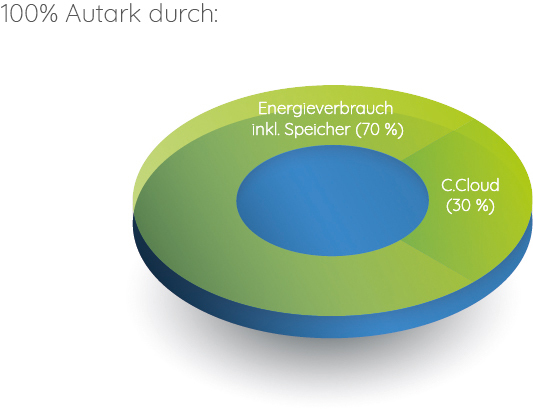
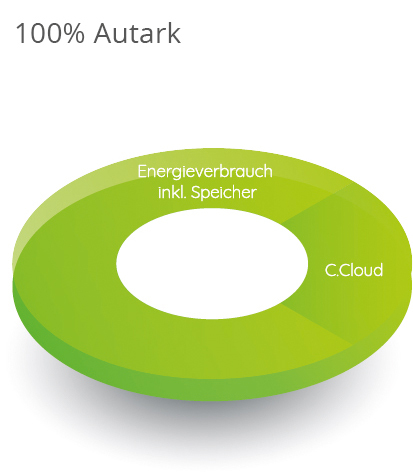
wi changes

diff --git a/app/modules/offer/templates/feasibility_study_2020/pages/page_pv_system.html b/app/modules/offer/templates/feasibility_study_2020/pages/page_pv_system.html
@@ -76,6 +76,11 @@
     background-color: #1475BD;
     border-bottom-color: #1475BD;
   }
+  .page_pv_system ul li.dark-green::before,
+  .page_pv_system ul li.dark-green::after {
+    background-color: #63B231;
+    border-bottom-color: #63B231;
+  }
 </style>
 
 
@@ -145,7 +150,7 @@
               <li class="blue">{{ cloud_name }} (40 %)</li>
             {% else %}
               <li>Eigenverbrauch (70 %)</li>
-              <li class="blue">{{ cloud_name }} (30 %)</li>
+              <li class="dark-green">{{ cloud_name }} (30 %)</li>
             {% endif %}
           </ul>
         </div>
